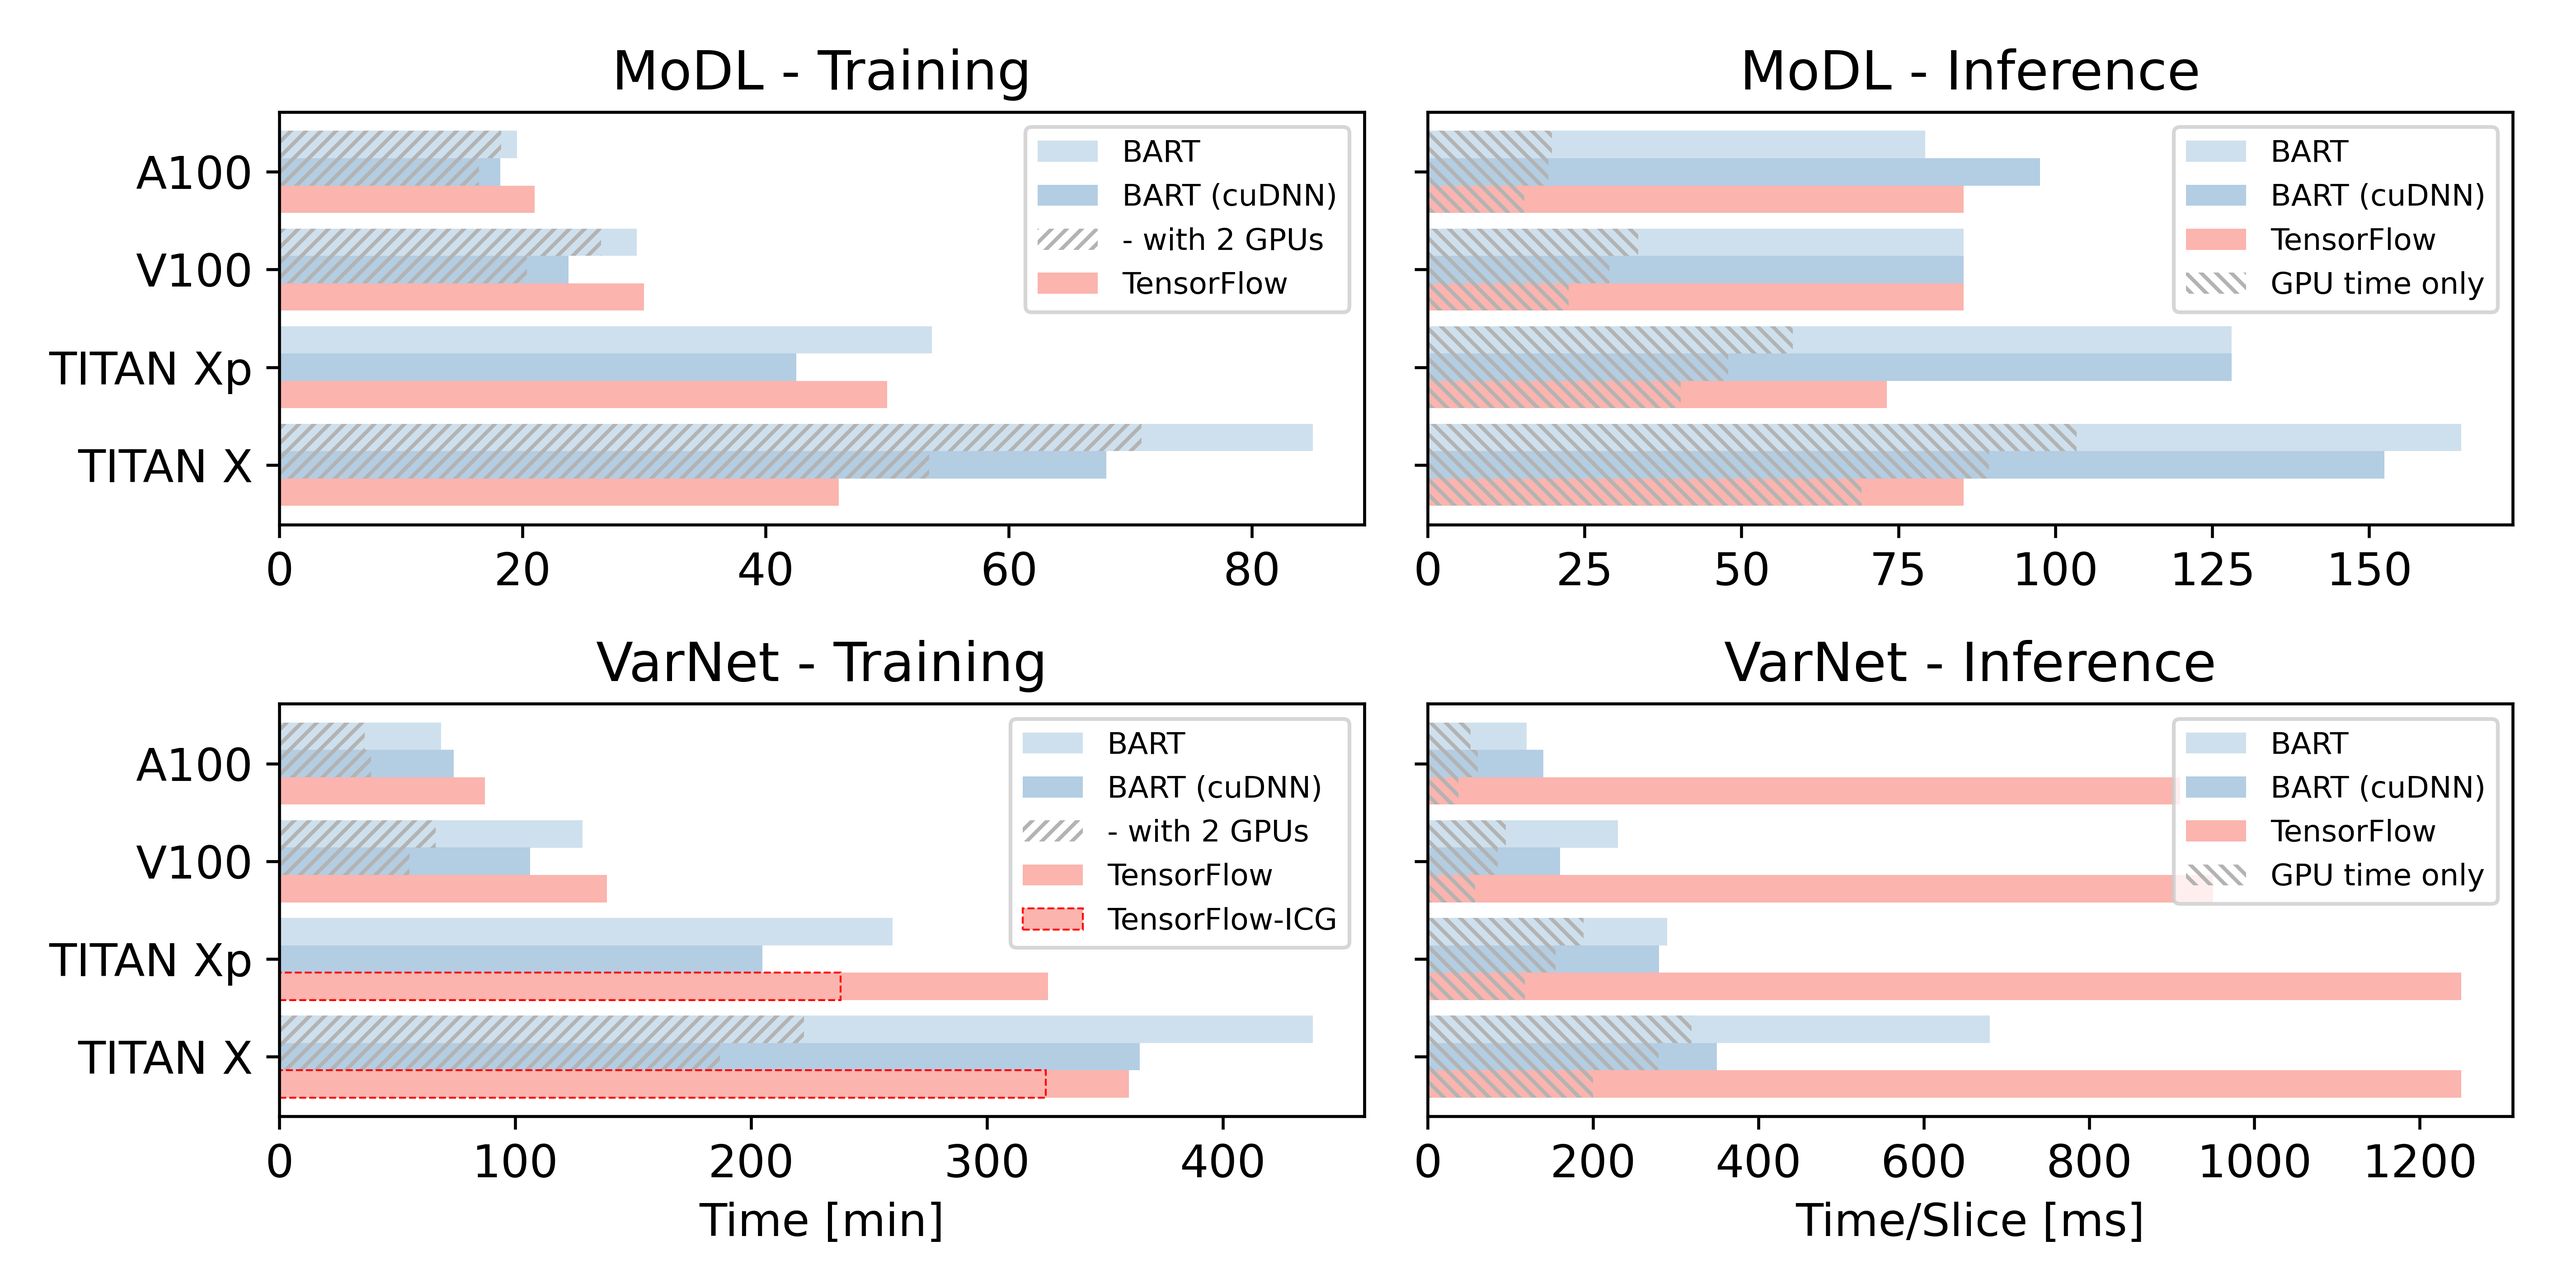
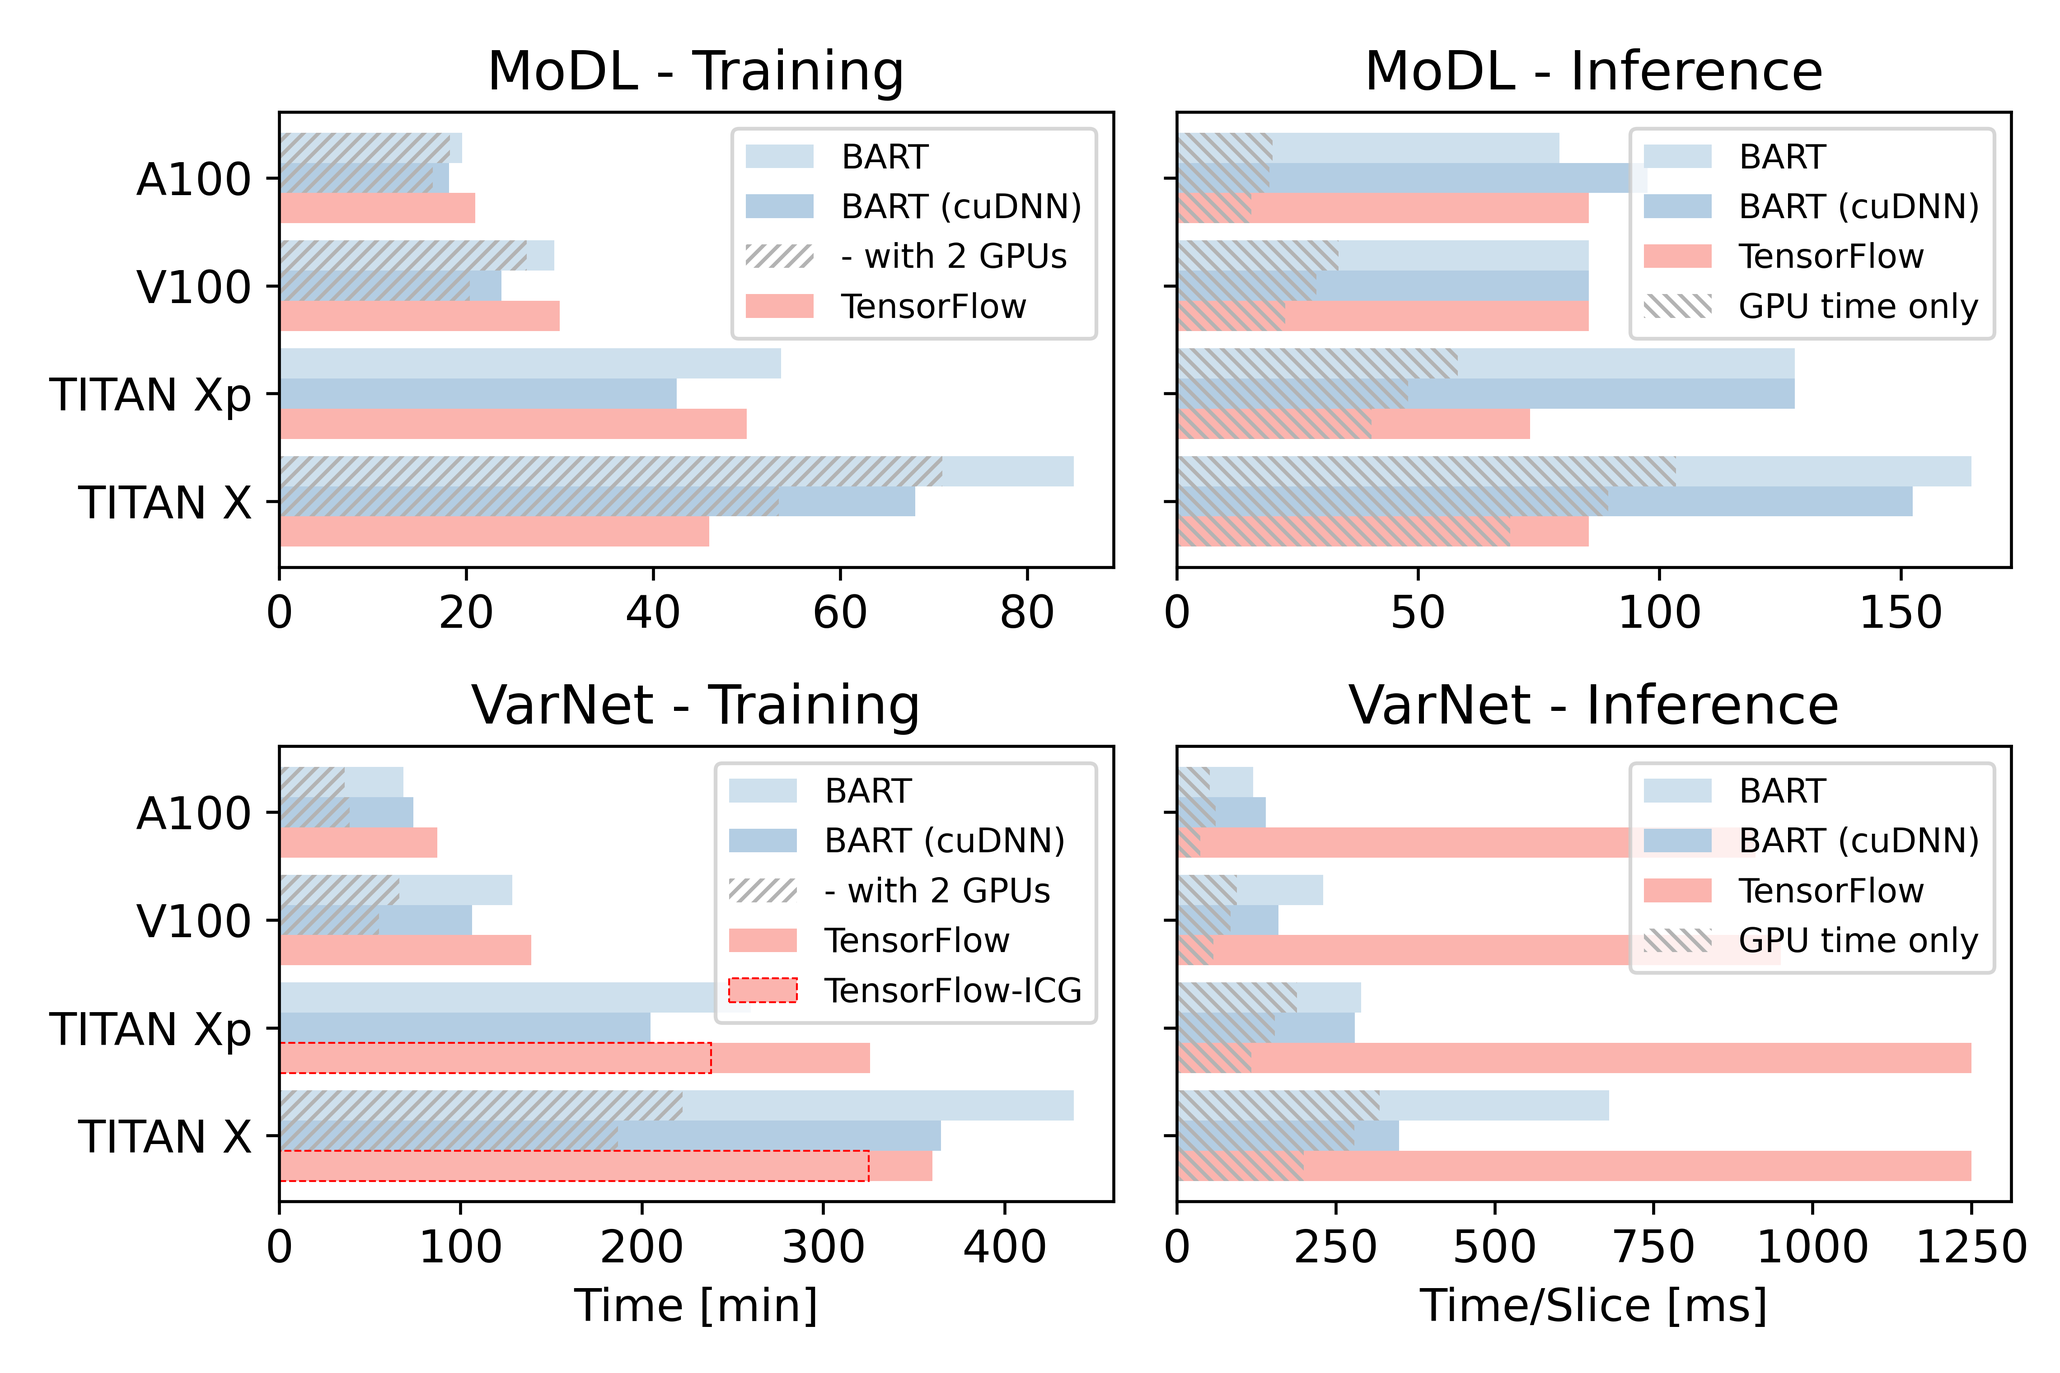
zoom in fig 7

Changed region(s): [[0.0311, 0.4996, 0.9965, 0.9681], [0.0311, 0.0312, 0.9965, 0.4684]]

diff --git a/Figure_07/01_plot.py b/Figure_07/01_plot.py
@@ -11,7 +11,7 @@ mpl.use('Agg')
 import matplotlib.pyplot as plt
 
 plt.rcParams.update({'font.size': 12})
-width=9.5
+width=9.5*0.8
 
 
 # %%
@@ -52,6 +52,7 @@ def plot(outfile):
         30,
         21
     ])           #in minutes
+
 
     vn_apply_tf=np.array([
         125,
@@ -213,7 +214,7 @@ def plot(outfile):
     ind = np.arange(N)
     barwidth = 0.28
 
-    fig, axes = plt.subplots(2, 2, sharey = True, figsize=(width, width / 2.))
+    fig, axes = plt.subplots(2, 2, sharey = True, figsize=(width, width / 1.5))
 
 
 
@@ -280,11 +281,11 @@ def plot(outfile):
     axes[1][0].set_xlabel('Time [min]')
     axes[1][1].set_xlabel('Time/Slice [ms]')
 
-    axes[0][0].legend(loc='best', prop={'size': 8})
-    axes[1][0].legend(loc='best', prop={'size': 8})
+    axes[0][0].legend(loc='best', prop={'size': 9})
+    axes[1][0].legend(loc='best', prop={'size': 9})
     
-    axes[0][1].legend(loc='best', prop={'size': 8})
-    axes[1][1].legend(loc='best', prop={'size': 8})
+    axes[0][1].legend(loc='best', prop={'size': 9})
+    axes[1][1].legend(loc='best', prop={'size': 9})
     plt.tight_layout()
 
     plt.savefig(outfile, dpi=600)
